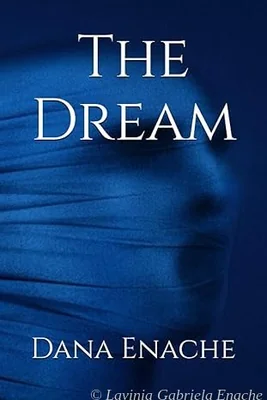
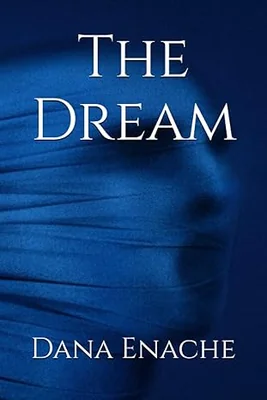
Add story images, refresh book covers, remove stories filter
- Download fresh book covers (evolution, on-vacation, the-dream) from live site
- Download cover images for all 12 stories from danaenache.com
- Clear image-hashes.json and reprocess without watermark
- Remove redundant language filter from stories page (all stories are EN)
- Remove filter CSS and JS (simpler code)

Changed region(s): [[0.3296, 0.96, 0.9888, 1.0]]

diff --git a/stories/the-little-ones/index.html b/stories/the-little-ones/index.html
@@ -9,6 +9,7 @@
   <meta property="og:title"       content="The Little Ones — Dana Enache" />
   <meta property="og:description" content="Freya woke up like she always did at seven AM to have her cup of tea and breakfast before the little ones decided that sleep was their enemy and joined her with their noise, constant running around and mess that covered" />
   <meta property="og:url"         content="https://danaenache.com/stories/the-little-ones/" />
+  <meta property="og:image" content="https://danaenache.com/stories/the-little-ones/cover.jpg" />
   <link rel="canonical" href="https://danaenache.com/stories/the-little-ones/" />
   <link rel="icon" href="../../favicon.svg" type="image/svg+xml" />
   <link rel="preconnect" href="https://fonts.googleapis.com" />
@@ -42,6 +43,9 @@
           <span class="story-page-date">2025-03-04</span>
         </div>
       </header>
+      <figure class="story-cover">
+        <img src="cover.jpg" alt="The Little Ones" loading="lazy" />
+      </figure>
       <div class="story-page-body">
         <p>Freya woke up like she always did at seven AM to have her cup of tea and breakfast before the little ones decided that sleep was their enemy and joined her with their noise, constant running around and mess that covered the entire house. They were like goblins sometimes, always throwing something on the ground, screaming at each other, fighting over toys and never eating their damn vegetables.<br />
 She stretched and threw her slippers on. In the adjacent bathroom, she peed, washed her face and teeth and looked in the mirror. Yes, still a fucking mess. Her hair was all over the place, big knots at the back of her head from how she had tossed and turned in her sleep, her waves crunchy with split ends and faded color. How long had passed since she had time to dye her hair? Freya couldn’t remember. So much since she had painted her nails too. Let’s not talk about time to put on a face mask or pluck her eyebrows. She barely had time to shower some days, never enough time to apply lotion, always rushed, their screams scratching away at her ears.<br />

diff --git a/stories/love/index.html b/stories/love/index.html
@@ -9,6 +9,7 @@
   <meta property="og:title"       content="Love — Dana Enache" />
   <meta property="og:description" content="“It’s all about perspective. And a little distance I guess. Some things are just better when viewed from afar.  Take my face for example. If I sit down on my chair and look at my skin in the mirror without leaning forwar" />
   <meta property="og:url"         content="https://danaenache.com/stories/love/" />
+  <meta property="og:image" content="https://danaenache.com/stories/love/cover.jpg" />
   <link rel="canonical" href="https://danaenache.com/stories/love/" />
   <link rel="icon" href="../../favicon.svg" type="image/svg+xml" />
   <link rel="preconnect" href="https://fonts.googleapis.com" />
@@ -42,6 +43,9 @@
           <span class="story-page-date">2023-02-28</span>
         </div>
       </header>
+      <figure class="story-cover">
+        <img src="cover.jpg" alt="Love" loading="lazy" />
+      </figure>
       <div class="story-page-body">
         <p>“It’s all about perspective. And a little distance I guess. Some things are just better when viewed from afar.  Take my face for example. If I sit down on my chair and look at my skin in the mirror without leaning forward, I might not see the pimple that had erupted the night before, or the redness, or the lines, or the pores. But if I move closer to the mirror, letting my nose almost touch the cold surface, I will notice all of it. Things will appear like magic. Only there is no such ting. I obviously know there were always there, but not seeing them makes me feel better, makes me believe I am beautiful.</p>
         <p>It’s the same thing with love. If you analyse it too much, if you start looking at all the details and small things, you might find out that your significant other isn’t the perfect human, the one that made you laugh, the one that made you feel safe and protected. The one you fell in love with. Even the smallest things will change your perspective.</p>

diff --git a/stories/eternity/index.html b/stories/eternity/index.html
@@ -9,6 +9,7 @@
   <meta property="og:title"       content="Eternity — Dana Enache" />
   <meta property="og:description" content="Ever since he was a little boy, Jason wanted to marry and have a family. It was his deepest, darkest desire that he kept hidden form the world in fear of loosing it, getting it tainted by the filth of other people. In hi" />
   <meta property="og:url"         content="https://danaenache.com/stories/eternity/" />
+  <meta property="og:image" content="https://danaenache.com/stories/eternity/cover.jpg" />
   <link rel="canonical" href="https://danaenache.com/stories/eternity/" />
   <link rel="icon" href="../../favicon.svg" type="image/svg+xml" />
   <link rel="preconnect" href="https://fonts.googleapis.com" />
@@ -42,6 +43,9 @@
           <span class="story-page-date">2025-01-04</span>
         </div>
       </header>
+      <figure class="story-cover">
+        <img src="cover.jpg" alt="Eternity" loading="lazy" />
+      </figure>
       <div class="story-page-body">
         <p>Ever since he was a little boy, Jason wanted to marry and have a family. It was his deepest, darkest desire that he kept hidden form the world in fear of loosing it, getting it tainted by the filth of other people. In his innocence, he still understood that a dream like that could get lost in meaningless encounters, fade away in maturity or simply laughed about by others who didn’t share it.<br />
 He grew up and met a girl, he fell in love and then got heartbroken, just as things sometimes are. There were other girls too but none of them quite like the first one. They say first love it’s impossible to forget and Jason thought this was true. He finished school and got a degree; worked every day without complaining and build a life for himself. And he woke up one day to find he was 35 and still alone, the hallways of his house empty, the rooms echoing when he called names inside of them.<br />

diff --git a/stories/trophies/index.html b/stories/trophies/index.html
@@ -9,6 +9,7 @@
   <meta property="og:title"       content="Trophies — Dana Enache" />
   <meta property="og:description" content="It was 3 AM when Rosie finally turned off her phone and put it on the nightstand. What was it about him that kept her up like this anyway? Almost every night she’d stay awake just to chat with him, even though she was cl" />
   <meta property="og:url"         content="https://danaenache.com/stories/trophies/" />
+  <meta property="og:image" content="https://danaenache.com/stories/trophies/cover.jpg" />
   <link rel="canonical" href="https://danaenache.com/stories/trophies/" />
   <link rel="icon" href="../../favicon.svg" type="image/svg+xml" />
   <link rel="preconnect" href="https://fonts.googleapis.com" />
@@ -42,6 +43,9 @@
           <span class="story-page-date">2025-01-28</span>
         </div>
       </header>
+      <figure class="story-cover">
+        <img src="cover.jpg" alt="Trophies" loading="lazy" />
+      </figure>
       <div class="story-page-body">
         <p>It was 3 AM when Rosie finally turned off her phone and put it on the nightstand. What was it about him that kept her up like this anyway? Almost every night she’d stay awake just to chat with him, even though she was clearly tired and needed to rest.<br />
 She simply couldn’t resist opening those messages whenever they beeped. Her finger would trail on top of the notification for a few seconds and then finally she’d give in, pressing and opening up the conversation. They would talk about random things, like what she was planning to cook for dinner the next day, what colour her blanket was, how many books she had on her shelf waiting for her to stop buying new ones and read what was already collecting dust. He would ask her about her day, about her interests, about her desires. She would giggle by herself while reading his jokes or opening up the reels he’d send.<br />

diff --git a/stories/robbie/index.html b/stories/robbie/index.html
@@ -9,6 +9,7 @@
   <meta property="og:title"       content="Robbie — Dana Enache" />
   <meta property="og:description" content="Robbie was a twenty-nine year old man who liked to think he was a decent person. He had finished Law school with a decent grade, got a job as an intern for a while and now he was working as a lawyer for a big firm. He ev" />
   <meta property="og:url"         content="https://danaenache.com/stories/robbie/" />
+  <meta property="og:image" content="https://danaenache.com/stories/robbie/cover.jpg" />
   <link rel="canonical" href="https://danaenache.com/stories/robbie/" />
   <link rel="icon" href="../../favicon.svg" type="image/svg+xml" />
   <link rel="preconnect" href="https://fonts.googleapis.com" />
@@ -42,6 +43,9 @@
           <span class="story-page-date">2024-10-31</span>
         </div>
       </header>
+      <figure class="story-cover">
+        <img src="cover.jpg" alt="Robbie" loading="lazy" />
+      </figure>
       <div class="story-page-body">
         <p>Robbie was a twenty-nine year old man who liked to think he was a decent person. He had finished Law school with a decent grade, got a job as an intern for a while and now he was working as a lawyer for a big firm. He even had his own office with a good sized chair that rotated and a cabinet full of dossiers. A considerable chunk of that good salary of his always went towards non profit organizations or the homeless shelters in his city. Every year he got ready with food boxes and toys for Christmas, standing in line with other people and offering them to whoever was in need. He had a girlfriend named Aoife and a cat named Toto. He loved them like crazy and his favourite free time activity was cuddling on the sofa with both, girl on his arm, cat on his lap watching movies.<br />
      He called his parents often and went for dinner at their house a couple of times every month.<br />

diff --git a/stories/thing/index.html b/stories/thing/index.html
@@ -9,6 +9,7 @@
   <meta property="og:title"       content="Thing — Dana Enache" />
   <meta property="og:description" content="Sometimes in life you just have to stop and stare. One day it may be your neighbor licking his cat and you look at him and think hey, maybe he’s retarded, or maybe some other day it may be that weird looking monkey fucki" />
   <meta property="og:url"         content="https://danaenache.com/stories/thing/" />
+  <meta property="og:image" content="https://danaenache.com/stories/thing/cover.png" />
   <link rel="canonical" href="https://danaenache.com/stories/thing/" />
   <link rel="icon" href="../../favicon.svg" type="image/svg+xml" />
   <link rel="preconnect" href="https://fonts.googleapis.com" />
@@ -42,6 +43,9 @@
           <span class="story-page-date">2021-03-01</span>
         </div>
       </header>
+      <figure class="story-cover">
+        <img src="cover.png" alt="Thing" loading="lazy" />
+      </figure>
       <div class="story-page-body">
         <p>Sometimes in life you just have to stop and stare. One day it may be your neighbor licking his cat and you look at him and think hey, maybe he’s retarded, or maybe some other day it may be that weird looking monkey fucking his buddy in the zoo and you can’t move away without watching the show first.</p>
         <p>It seems now is one of those moments. Because, believe it or not, there it is, in front of your eyes, the most hideous being that can possibly exist, and you can’t even get yourself to comprehend whatever happened to it. Why and what changed it so much and gave it that face with sores all over it? And blood. So much blood! Something peeks from underneath all that blood: something white that could sparkle maybe, if cleaned. And, my god, those eyes. Those bulgy eyes, starring at you like crazy.</p>

diff --git a/stories/sensors/index.html b/stories/sensors/index.html
@@ -9,6 +9,7 @@
   <meta property="og:title"       content="Sensors — Dana Enache" />
   <meta property="og:description" content="Do you know why those sensors that sometimes exist in a house are good? Well… not only to protect from burglars. Who has time anyway to arm the house every time they leave?               Those sensors that blink or make" />
   <meta property="og:url"         content="https://danaenache.com/stories/sensors/" />
+  <meta property="og:image" content="https://danaenache.com/stories/sensors/cover.jpg" />
   <link rel="canonical" href="https://danaenache.com/stories/sensors/" />
   <link rel="icon" href="../../favicon.svg" type="image/svg+xml" />
   <link rel="preconnect" href="https://fonts.googleapis.com" />
@@ -42,6 +43,9 @@
           <span class="story-page-date">2021-03-27</span>
         </div>
       </header>
+      <figure class="story-cover">
+        <img src="cover.jpg" alt="Sensors" loading="lazy" />
+      </figure>
       <div class="story-page-body">
         <p>Do you know why those sensors that sometimes exist in a house are good? Well… not only to protect from burglars. Who has time anyway to arm the house every time they leave?</p>
         <p>Those sensors that blink or make a tiny sound every time somebody moves in the house are good for some nights when you can’t sleep and you find yourself thinking about idiotic stuff, wishing more idiotic stuff and imagining even more idiotic stuff. And then you see it. That fucking sensor blinks or makes its normal soft sound, even though you are still in bed thinking and, obviously, not moving.</p>

diff --git a/script.js b/script.js
@@ -2,12 +2,10 @@
  * script.js — Stories listing page for Dana Enache's website
  */
 
-let allStories  = [];
-let currentLang = 'all';
+let allStories = [];
 
 const storiesGrid = document.getElementById('storiesGrid');
 const emptyState  = document.getElementById('emptyState');
-const filterBtns  = document.querySelectorAll('.filter-btn');
 
 async function loadManifest() {
   try {
@@ -19,12 +17,10 @@ async function loadManifest() {
 
 function renderStories(stories) {
   storiesGrid.innerHTML = '';
-  const filtered = currentLang === 'all' ? stories : stories.filter(s => s.lang === currentLang);
-
-  if (!filtered.length) { emptyState.classList.remove('hidden'); return; }
+  if (!stories.length) { emptyState.classList.remove('hidden'); return; }
   emptyState.classList.add('hidden');
 
-  filtered.forEach(story => {
+  stories.forEach(story => {
     const dateStr = story.added
       ? new Date(story.added).toLocaleDateString('en-GB', { year: 'numeric', month: 'short', day: 'numeric' })
       : '';
@@ -52,15 +48,6 @@ function renderStories(stories) {
     storiesGrid.appendChild(card);
   });
 }
-
-filterBtns.forEach(btn => {
-  btn.addEventListener('click', () => {
-    filterBtns.forEach(b => b.classList.remove('active'));
-    btn.classList.add('active');
-    currentLang = btn.dataset.lang;
-    renderStories(allStories);
-  });
-});
 
 (async () => {
   const manifest = await loadManifest();

diff --git a/stories/last-breath/index.html b/stories/last-breath/index.html
@@ -9,6 +9,7 @@
   <meta property="og:title"       content="Last Breath — Dana Enache" />
   <meta property="og:description" content="LINK for audio version part 1-3: https://youtu.be/fvetpEfoszY  LINK for audio version part 4-6: https://youtu.be/ez9pCk1SBuQ  PART 1 : 6 month before dying  MARK  April 1st 2024  I am starting this Journal on the 1st of" />
   <meta property="og:url"         content="https://danaenache.com/stories/last-breath/" />
+  <meta property="og:image" content="https://danaenache.com/stories/last-breath/cover.jpg" />
   <link rel="canonical" href="https://danaenache.com/stories/last-breath/" />
   <link rel="icon" href="../../favicon.svg" type="image/svg+xml" />
   <link rel="preconnect" href="https://fonts.googleapis.com" />
@@ -42,6 +43,9 @@
           <span class="story-page-date">2025-05-02</span>
         </div>
       </header>
+      <figure class="story-cover">
+        <img src="cover.jpg" alt="Last Breath" loading="lazy" />
+      </figure>
       <div class="story-page-body">
         <p>LINK for audio version part 1-3: <a href="https://youtu.be/fvetpEfoszY" target="_blank" rel="noopener noreferrer">https://youtu.be/fvetpEfoszY</a></p>
         <p>LINK for audio version part 4-6: <a href="https://youtu.be/ez9pCk1SBuQ" target="_blank" rel="noopener noreferrer">https://youtu.be/ez9pCk1SBuQ</a></p>

diff --git a/stories/back-to-life/index.html b/stories/back-to-life/index.html
@@ -9,6 +9,7 @@
   <meta property="og:title"       content="Back to Life — Dana Enache" />
   <meta property="og:description" content="I was six years old when I first died. I was playing in the park, running from swing to slide to climbing frame. I slipped, fell from a high place that probably had a faulty design with no safety taken into consideration" />
   <meta property="og:url"         content="https://danaenache.com/stories/back-to-life/" />
+  <meta property="og:image" content="https://danaenache.com/stories/back-to-life/cover.jpg" />
   <link rel="canonical" href="https://danaenache.com/stories/back-to-life/" />
   <link rel="icon" href="../../favicon.svg" type="image/svg+xml" />
   <link rel="preconnect" href="https://fonts.googleapis.com" />
@@ -42,6 +43,9 @@
           <span class="story-page-date">2025-12-13</span>
         </div>
       </header>
+      <figure class="story-cover">
+        <img src="cover.jpg" alt="Back to Life" loading="lazy" />
+      </figure>
       <div class="story-page-body">
         <p>I was six years old when I first died.<br />
 I was playing in the park, running from swing to slide to climbing frame. I slipped, fell from a high place that probably had a faulty design with no safety taken into consideration, and broke my neck.<br />

diff --git a/stories/his/index.html b/stories/his/index.html
@@ -9,6 +9,7 @@
   <meta property="og:title"       content="His — Dana Enache" />
   <meta property="og:description" content="The story you are about to read is suitable for 18+ years. Explicit content.  That being said… I am still a horror writer. This just slipped through. 🙂 Enjoy, friends! And don’t forget to leave me a comment down below. x" />
   <meta property="og:url"         content="https://danaenache.com/stories/his/" />
+  <meta property="og:image" content="https://danaenache.com/stories/his/cover.jpg" />
   <link rel="canonical" href="https://danaenache.com/stories/his/" />
   <link rel="icon" href="../../favicon.svg" type="image/svg+xml" />
   <link rel="preconnect" href="https://fonts.googleapis.com" />
@@ -42,6 +43,9 @@
           <span class="story-page-date">2025-06-17</span>
         </div>
       </header>
+      <figure class="story-cover">
+        <img src="cover.jpg" alt="His" loading="lazy" />
+      </figure>
       <div class="story-page-body">
         <p>The story you are about to read is suitable for 18+ years. Explicit content.</p>
         <p>That being said… I am still a horror writer. This just slipped through. 🙂 Enjoy, friends! And don’t forget to leave me a comment down below. x</p>

diff --git a/stories/ellis/index.html b/stories/ellis/index.html
@@ -9,6 +9,7 @@
   <meta property="og:title"       content="Ellis — Dana Enache" />
   <meta property="og:description" content="This is a personalized short story, based on a real person.  I created this using the information my client has given me. It’s an unique story that builds around her fears.  You can order your own personalized story from" />
   <meta property="og:url"         content="https://danaenache.com/stories/ellis/" />
+  <meta property="og:image" content="https://danaenache.com/stories/ellis/cover.jpg" />
   <link rel="canonical" href="https://danaenache.com/stories/ellis/" />
   <link rel="icon" href="../../favicon.svg" type="image/svg+xml" />
   <link rel="preconnect" href="https://fonts.googleapis.com" />
@@ -42,6 +43,9 @@
           <span class="story-page-date">2025-09-29</span>
         </div>
       </header>
+      <figure class="story-cover">
+        <img src="cover.jpg" alt="Ellis" loading="lazy" />
+      </figure>
       <div class="story-page-body">
         <p>This is a personalized short story, based on a real person.</p>
         <p>I created this using the information my client has given me. It’s an unique story that builds around her fears.</p>
